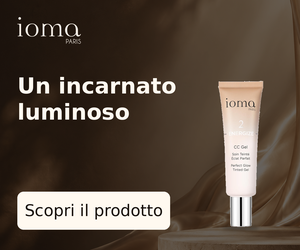
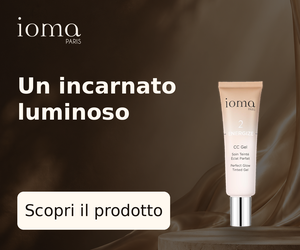
Improve packshot edges and export from high-resolution originals

diff --git a/campaign.py b/campaign.py
@@ -39,14 +39,17 @@ def packshot_layer(photo_path):
         photo = source.convert('RGB')
     minimum = ImageChops.darker(photo.getchannel('R'),
                                ImageChops.darker(photo.getchannel('G'), photo.getchannel('B')))
-    exterior = minimum.point(lambda value: 255 if value >= 250 else 0)
+    # JPEG compression makes exterior white vary slightly around the silhouette.
+    exterior = minimum.point(lambda value: 255 if value >= 245 else 0)
     for corner in [(0, 0), (photo.width-1, 0), (0, photo.height-1),
                    (photo.width-1, photo.height-1)]:
         if exterior.getpixel(corner) == 255:
             ImageDraw.floodfill(exterior, corner, 128)
     alpha = exterior.point(lambda value: 0 if value == 128 else 255)
-    alpha = alpha.filter(ImageFilter.MinFilter(3)).filter(ImageFilter.MaxFilter(3))
-    alpha = alpha.filter(ImageFilter.GaussianBlur(0.4))
+    # Trim the contaminated white rim instead of regrowing it with MaxFilter.
+    # This is a two-pixel correction on the high-resolution source only.
+    alpha = alpha.filter(ImageFilter.MedianFilter(5)).filter(ImageFilter.MinFilter(5))
+    alpha = alpha.filter(ImageFilter.GaussianBlur(1.0))
     result = photo.convert('RGBA')
     result.putalpha(alpha)
     bounds = alpha.getbbox()
@@ -178,7 +181,19 @@ def logo_layer(width, white):
     return logo
 
 
-def master(product_photo, headline, cta, landscape=False, font_path=None):
+def composite_product(image, photo, box):
+    """Sample the original cutout once, directly to final export dimensions."""
+    left, top, right, bottom = [round(value) for value in box]
+    resized = photo.resize((right-left, bottom-top), Image.Resampling.LANCZOS)
+    center_x = (left+right)/2
+    shadow = Image.new('RGBA', image.size)
+    ImageDraw.Draw(shadow).ellipse((center_x-resized.width*.4, bottom-5,
+                                  center_x+resized.width*.4, bottom+12), fill=(20,12,5,95))
+    image.alpha_composite(shadow.filter(ImageFilter.GaussianBlur(7)))
+    image.alpha_composite(resized, (left,top))
+
+
+def master(product_photo, headline, cta, landscape=False, font_path=None, include_product=True):
     size = LANDSCAPE_SIZE if landscape else PORTRAIT_SIZE
     image, white_background = background(size)
     ink = (24, 18, 14) if white_background else (255, 249, 240)
@@ -201,11 +216,12 @@ def master(product_photo, headline, cta, landscape=False, font_path=None):
     photo = product_photo.copy()
     photo.thumbnail(photo_limit, Image.Resampling.LANCZOS)
     xy = (center_x-photo.width//2, bottom-photo.height)
-    shadow = Image.new('RGBA', image.size)
-    ImageDraw.Draw(shadow).ellipse((center_x-photo.width*0.4, bottom-5,
-                                  center_x+photo.width*0.4, bottom+12), fill=(20, 12, 5, 95))
-    image.alpha_composite(shadow.filter(ImageFilter.GaussianBlur(7)))
-    image.alpha_composite(photo, xy)
+    if include_product:
+        shadow = Image.new('RGBA', image.size)
+        ImageDraw.Draw(shadow).ellipse((center_x-photo.width*0.4, bottom-5,
+                                      center_x+photo.width*0.4, bottom+12), fill=(20, 12, 5, 95))
+        image.alpha_composite(shadow.filter(ImageFilter.GaussianBlur(7)))
+        image.alpha_composite(photo, xy)
     elements.append({'kind': 'product', 'box': (xy[0], xy[1], xy[0]+photo.width, xy[1]+photo.height)})
     logo = logo_layer(logo_width, not white_background)
     image.alpha_composite(logo, logo_xy)
@@ -258,7 +274,8 @@ def render_campaign(product, headline, cta, directory, font_path=None):
     if not headline.strip() or len(headline.split()) > 4:
         raise ValueError('Headline richiesta: massimo 4 parole, identiche in tutte le grafiche.')
     photo = packshot_layer(photo_path)
-    portrait, portrait_elements, _ = master(photo, headline, cta, font_path=font_path)
+    # Keep the packshot as a separate original layer while adapting the masters.
+    portrait, portrait_elements, _ = master(photo, headline, cta, font_path=font_path, include_product=False)
     # Nothing important in the first/last 6%, and protect the actual 8.33% crop too.
     for element in portrait_elements:
         if element['box'][1] < PORTRAIT_SIZE[1]*0.06 or element['box'][3] > PORTRAIT_SIZE[1]*0.94:
@@ -272,9 +289,13 @@ def render_campaign(product, headline, cta, directory, font_path=None):
     story.paste(resized, (0, 150))
     story.paste(resized.crop((0, 1470, 1080, 1620)).transpose(Image.Transpose.FLIP_TOP_BOTTOM), (0, 1770))
     story_elements = transform(portrait_elements, 1080/1024, 1620/1536, oy=150)
-    landscape, landscape_elements, white = master(photo, headline, cta, landscape=True, font_path=font_path)
+    landscape, landscape_elements, white = master(photo, headline, cta, landscape=True,
+                                                 font_path=font_path, include_product=False)
     banner = landscape.crop(BANNER_CROP).resize(FORMATS['banner'], Image.Resampling.LANCZOS)
     banner_elements = transform(landscape_elements, 300/1229, 250/1024, ox=-154*300/1229)
+    for image, elements in [(feed, feed_elements), (story, story_elements), (banner, banner_elements)]:
+        product_box = next(element['box'] for element in elements if element['kind']=='product')
+        composite_product(image, photo, product_box)
     if white:
         ImageDraw.Draw(banner).rectangle((0, 0, 299, 249), outline=(70, 70, 70), width=1)
     output = {}

diff --git a/tests/test_agent.py b/tests/test_agent.py
@@ -7,7 +7,7 @@ import unittest
 from unittest.mock import patch
 from argparse import Namespace
 
-from PIL import Image, ImageChops
+from PIL import Image, ImageChops, ImageDraw
 from agent import load_products, parse_news, run
 from campaign import FORMATS, campaign_copy, render_campaign, packshot_layer
 
@@ -95,6 +95,45 @@ class AgentTests(unittest.TestCase):
             difference = ImageChops.difference(actual, fitted.convert('RGB'))
             difference.paste((0,0,0), mask=ImageChops.invert(opaque))
             self.assertIsNone(difference.getbbox())
+
+    def test_high_resolution_photo_is_preferred_to_older_database_link(self):
+        with tempfile.TemporaryDirectory() as folder:
+            products = load_products(Path(folder)/'catalog.sqlite')
+            for product in products:
+                self.assertIn('width=2000', product['images'][0]['source_url'])
+                with Image.open(product['images'][0]['path']) as photo:
+                    self.assertEqual(photo.size, (2000,2000))
+                self.assertTrue(any('width=1000' in image['source_url'] for image in product['images']))
+
+    def test_white_fringe_removed_without_erasing_white_print(self):
+        with tempfile.TemporaryDirectory() as folder:
+            source = Image.new('RGB',(180,260),'white')
+            drawing = ImageDraw.Draw(source)
+            drawing.rectangle((45,20,135,240), fill=(245,245,245))
+            drawing.rectangle((46,21,134,239), fill=(150,100,60))
+            drawing.rectangle((65,105,115,150), fill='white')
+            path = Path(folder)/'fringe.png';source.save(path)
+            layer = packshot_layer(path)
+            row = [layer.getpixel((x,layer.height//4)) for x in range(layer.width)]
+            self.assertFalse(any(min(pixel[:3]) >= 240 and pixel[3] > 128 for pixel in row))
+            self.assertEqual(layer.getpixel((layer.width//2,layer.height//2)), (255,255,255,255))
+
+    def test_exports_sample_original_photo_once_at_final_resolution(self):
+        with tempfile.TemporaryDirectory() as folder:
+            product = load_products(Path(folder)/'catalog.sqlite')[0]
+            result = render_campaign(product, *campaign_copy(product), Path(folder))
+            photo = packshot_layer(product['images'][0]['path'])
+            for kind, info in result.items():
+                with self.subTest(format=kind):
+                    box = next(e['box'] for e in info['elements'] if e['kind']=='product')
+                    left, top, right, bottom = [round(value) for value in box]
+                    expected = photo.resize((right-left,bottom-top),Image.Resampling.LANCZOS)
+                    with Image.open(info['path']) as image:
+                        actual = image.crop((left,top,right,bottom)).convert('RGB')
+                    opaque = expected.getchannel('A').point(lambda value: 255 if value==255 else 0)
+                    difference = ImageChops.difference(actual,expected.convert('RGB'))
+                    difference.paste((0,0,0), mask=ImageChops.invert(opaque))
+                    self.assertIsNone(difference.getbbox())
 
     def test_white_banner_has_one_pixel_border(self):
         with tempfile.TemporaryDirectory() as folder:

diff --git a/agent.py b/agent.py
@@ -66,16 +66,18 @@ def load_products(path):
     with sqlite3.connect(f'{path.resolve().as_uri()}?mode=ro', uri=True) as db:
         products = []
         for url, name, description, raw in db.execute('SELECT page_url,name,description,json_ld FROM products ORDER BY name'):
+            data = json.loads(raw)
             images = []
             for source_url, image_path in db.execute(
                     'SELECT i.url,i.path FROM images i JOIN product_images pi ON pi.image_url=i.url '
-                    'WHERE pi.page_url=? AND pi.name=? ORDER BY i.url', (url, name)):
+                    'WHERE pi.page_url=? AND pi.name=? ORDER BY (i.url=?) DESC,i.url',
+                    (url, name, data.get('image_source_url', ''))):
                 local_path = ROOT / image_path
                 if not local_path.is_file():
                     local_path = path.parent / image_path
                 images.append({'source_url': source_url, 'path': str(local_path.resolve())})
             products.append({'id': url, 'name': name, 'description': description,
-                             'data': json.loads(raw), 'images': images})
+                             'data': data, 'images': images})
     if not products:
         raise RuntimeError('Il catalogo è vuoto. Inserisci un prodotto nel database.')
     return products

diff --git a/README.md b/README.md
@@ -45,7 +45,7 @@ Di default sono usati DejaVu Sans Bold e DejaVu Sans Regular. `--font` usa un so
 
 ## Asset e database
 
-I packshot originali sono in `assets/products/`, collegati al catalogo tramite `images` e `product_images`. Gli originali restano invariati: nella composizione viene rimosso soltanto il bianco esterno e il packshot viene ridimensionato. La confezione e le scritte non sono rigenerate con IA.
+I packshot originali sono in `assets/products/`, collegati al catalogo tramite `images` e `product_images`. La composizione preferisce i packshot ufficiali a 2000×2000 pixel; le precedenti versioni a 1000 pixel restano archiviate. Gli originali restano invariati: nella composizione viene rimosso soltanto il bianco esterno e corretta la frangia chiara del bordo. Il packshot resta separato dal master e viene ridimensionato una sola volta, direttamente alla dimensione di esportazione di ciascun formato. La confezione e le scritte non sono rigenerate con IA.
 
 Il logo ufficiale è in `assets/brand/ioma-logo.png`. Il fondo fotografico di seta e pietra, creato con il generatore di immagini, è in `assets/backgrounds/ioma-campaign.png`. I master di lavoro vengono composti in memoria alle dimensioni indicate: non si rigenera uno sfondo remoto a ogni avvio e non servono API di generazione a pagamento. Il prodotto è ricomposto per il banner, senza ritagliare un post verticale con testi diventati minuscoli.
 
